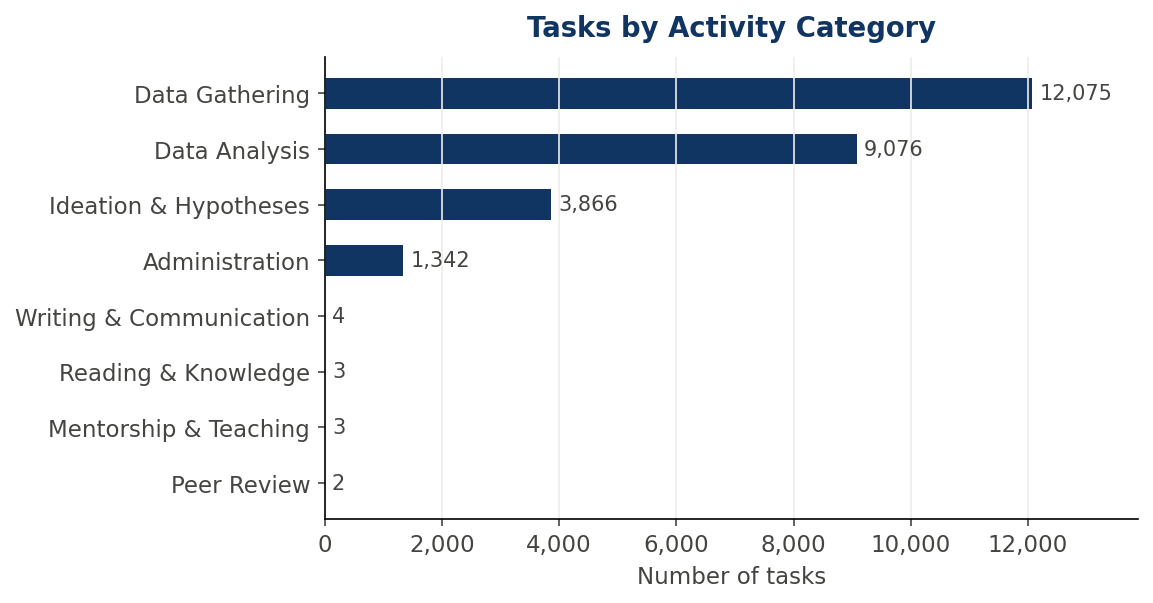
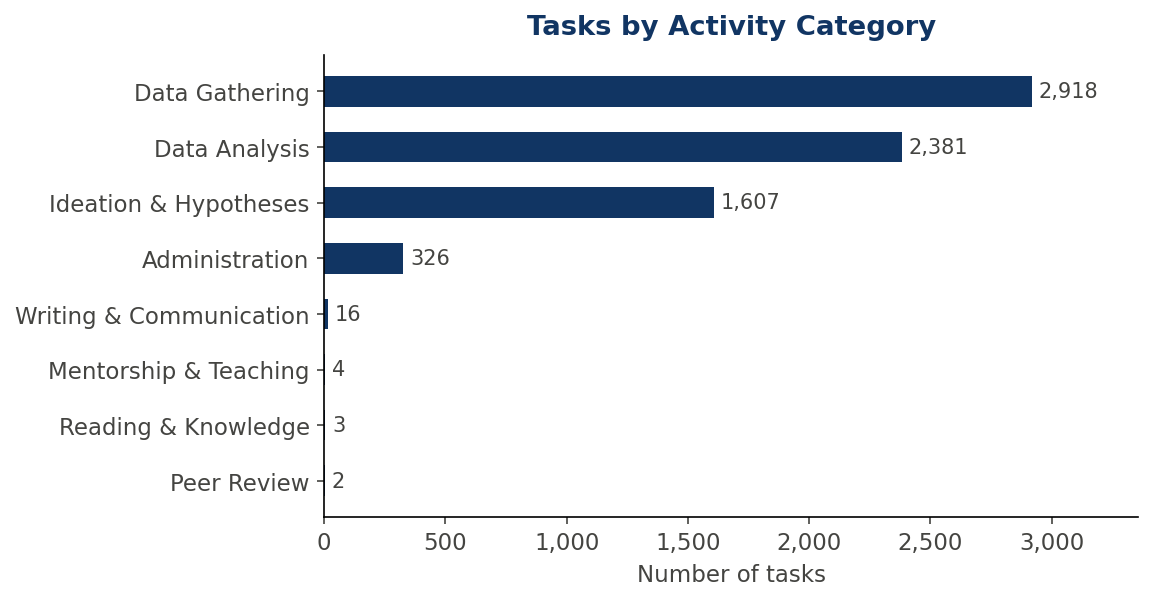
docs: 6 domains not 5, drop topics as a taxonomy level, refresh the task figures
* **6 domains, not 5.** Formal Sciences was added in July and no headline was
  updated; the README, DATA_OVERVIEW and the website all still said five.
* **Topics are no longer a level of the taxonomy.** They carry no tasks and the
  site does not browse them, so the hierarchy is domains -> fields ->
  subfields. `openalex_topic_subfield_mapping.csv` stays and is now described
  for what it actually is: the crosswalk that routes a paper to a subfield.
* **Task figures regenerated** against the v1.3 data. `tasks_by_level` had a
  hard-coded three-level list and was silently dropping the 321 field-level
  tasks; `tasks_by_category` now shows the corrected distribution rather than
  the old release's 89%-Ideation artifact.
* DATA_OVERVIEW says eight activity categories, matching the taxonomy and the
  website; it had said seven.
* Both files now state that a subfield inherits the broader tasks above it,
  which is why a page shows more cards than the database has tasks.

Only the three task figures were regenerated. The others are unchanged, and
the `figures/paper/` set is left alone.

diff --git a/generate_figures.py b/generate_figures.py
@@ -42,7 +42,7 @@ DOMAIN_COLORS = {
     "Life Sciences":     NEWBLUE,
     "Physical Sciences": LABLUE,
     "Health Sciences":   "#5B8FD4",
-    "Arts & Humanities": "#9A6B57",
+    "Arts & Humanities": "#7F8FA6",
 }
 
 CATEGORY_SHORT = {
@@ -60,7 +60,7 @@ CATEGORY_SHORT = {
 STYLE_BASE = {
     "axes.spines.top":  False,
     "axes.spines.right":False,
-    "axes.grid":        True,
+    "axes.grid":        False,
     "axes.grid.axis":   "x",
     "grid.color":       GRAY3,
     "grid.linewidth":   0.8,
@@ -111,12 +111,16 @@ def _suptitle(fig, *args, **kwargs):
 
 
 def save(fig, name):
+    for ax in fig.axes:
+        ax.grid(False)
     fig.savefig(_active_out / name, bbox_inches="tight", dpi=150)
     plt.close(fig)
     print(f"  saved: {_active_out.relative_to(HERE)}/{name}")
 
 
 def save_loose(fig, name):
+    for ax in fig.axes:
+        ax.grid(False)
     fig.savefig(_active_out / name, dpi=150)
     plt.close(fig)
     print(f"  saved: {_active_out.relative_to(HERE)}/{name}")
@@ -471,12 +475,16 @@ def fig_tasks_by_category():
 # ══════════════════════════════════════════════════════════════════════════════
 def fig_tasks_by_level():
     df = pd.read_csv(PUB / "tasks.csv")
-    level_order = ["universal", "domain", "subfield"]
-    level_labels = {"universal": "Universal", "domain": "Domain", "subfield": "Subfield"}
-    counts = df.groupby("level").size().reindex(level_order).rename(index=level_labels)
+    # "field" arrived with the v1.3 validation run; it was absent from the
+    # hard-coded order, so the figure silently dropped 321 tasks
+    level_order = ["universal", "domain", "field", "subfield"]
+    level_labels = {"universal": "Universal", "domain": "Domain",
+                    "field": "Field", "subfield": "Subfield"}
+    counts = (df.groupby("level").size().reindex(level_order).dropna()
+                .astype(int).rename(index=level_labels))
 
     fig, ax = plt.subplots(figsize=(5, 3))
-    colors = [LALIGHTBLUE, NEWBLUE, LABLUE]
+    colors = [LALIGHTBLUE, NEWBLUE, LABLUE, LABLUE][: len(counts)]
     bars = ax.bar(counts.index, counts.values, color=colors, width=0.5)
     for bar, v in zip(bars, counts.values):
         ax.text(bar.get_x() + bar.get_width() / 2, v + counts.values.max() * 0.02,
@@ -757,7 +765,38 @@ def fig_ai_mention_subfields():
 
 
 # ══════════════════════════════════════════════════════════════════════════════
-# 8. AI adoption by country — two panels
+# 8b. AI-mention rate by Economics subfield
+# ══════════════════════════════════════════════════════════════════════════════
+def fig_ai_mention_econ_subfields():
+    tyc = pd.read_csv(PRIV / "openalex" / "field_stats" / "topic_yearly_counts.csv")
+    tyc = tyc[tyc["year"].between(2023, 2025)]
+    tyc_agg = tyc.groupby("topic_id")[["paper_count", "ai_paper_count"]].sum().reset_index()
+
+    mapping = load_topic_mapping()
+    tyc_agg["topic_id"] = tyc_agg["topic_id"].astype(str)
+
+    merged = tyc_agg.merge(mapping, on="topic_id", how="left").dropna(subset=["subfield", "field"])
+    econ = merged[merged["field"] == "Economics"]
+    sf_agg = (econ.groupby("subfield")[["paper_count", "ai_paper_count"]]
+                  .sum().reset_index())
+    sf_agg["ai_share"] = sf_agg["ai_paper_count"] / sf_agg["paper_count"] * 100
+    sf_agg = sf_agg.sort_values("ai_share")
+
+    fig, ax = plt.subplots(figsize=(8, 5.5))
+    ax.barh(sf_agg["subfield"], sf_agg["ai_share"], color=LALIGHTBLUE, height=0.65)
+    for i, (_, row) in enumerate(sf_agg.iterrows()):
+        ax.text(row["ai_share"] + 0.15, i,
+                f"{row['ai_share']:.1f}%", va="center", color=GRAY1, fontsize=9)
+    ax.set_xlabel("Share of papers mentioning AI (%)", color=GRAY1)
+    _set_title(ax, "AI-Mention Rate by Economics Subfield\n(2023–2025)",
+               color=LABLUE, fontweight="bold", pad=10)
+    ax.tick_params(colors=GRAY1, labelsize=9)
+    ax.set_xlim(0, sf_agg["ai_share"].max() * 1.18)
+    save(fig, "ai_mention_econ_subfields.png")
+
+
+# ══════════════════════════════════════════════════════════════════════════════
+# 9. AI adoption by country — two panels
 # ══════════════════════════════════════════════════════════════════════════════
 def fig_ai_adoption_country():
     df = pd.read_csv(PRIV / "openalex" / "field_stats" / "ai_rankings_country.csv")
@@ -1347,6 +1386,7 @@ ALL_FIGS = [
     fig_verifiability_components,
     fig_ai_mention_fields,
     fig_ai_mention_subfields,
+    fig_ai_mention_econ_subfields,
     fig_ai_adoption_country,
     fig_papers_by_domain,
 ]

diff --git a/README.md b/README.md
@@ -1,12 +1,14 @@
 # SciNet
 
-A task-level database of scientific research — a comprehensive map of what researchers actually do, broken down by domain, field, subfield, and topic. SciNet enables rigorous, task-level analysis of scientific work by mapping the granular activity structure of science across 5 domains, 34 fields, 318 subfields, and 4,469 topics, with 7,257 released task statements (27 universal, 134 domain, 321 field, and 6,775 subfield-level). Each task also ships with a substep decomposition and an estimate of how long it takes, per subfield.
+A task-level database of scientific research — a comprehensive map of what researchers actually do, broken down by domain, field, and subfield. SciNet enables rigorous, task-level analysis of scientific work by mapping the granular activity structure of science across 6 domains, 34 fields, and 318 subfields, with 7,257 released task statements (27 universal, 134 domain, 321 field, and 6,775 subfield-level). Each task also ships with a substep decomposition and an estimate of how long it takes, per subfield.
 
 **Website:** [anatomyofscience.com](https://www.anatomyofscience.com/) · **Repository:** [github.com/lukasalthoff/scinet](https://github.com/lukasalthoff/scinet)
 
 ## Overview
 
-SciNet organizes research work into a hierarchy aligned with [OpenAlex](https://openalex.org/) (domains, fields, subfields, and topics). For each level, we use large language models to generate O\*NET-style task statements describing what researchers in that area regularly do.
+SciNet organizes research work into a hierarchy aligned with [OpenAlex](https://openalex.org/): domains, fields, and subfields. Every task is filed at the level it genuinely belongs to — universal tasks apply to research everywhere, domain and field tasks to a whole domain or field, and subfield tasks to one subfield — so a subfield inherits the broader tasks above it rather than repeating them.
+
+Task statements are generated by large language models and then validated against published papers: a candidate task is kept only where it is actually observed in at least 5% of that subfield's papers.
 
 The files in [`data/`](data/) are released for replication and downstream research.
 
@@ -19,7 +21,7 @@ All files are UTF-8. CSVs use comma separators. See [`data/README.md`](data/READ
 | [`data/tasks.csv`](data/tasks.csv) | Every task in the hierarchy (universal, domain, field, and subfield levels) with category labels |
 | [`data/substeps.csv.gz`](data/substeps.csv.gz) | How each task decomposes into the steps a researcher performs |
 | [`data/task_time.csv`](data/task_time.csv) | How long each task takes, estimated separately for every subfield it appears in |
-| [`data/openalex_topic_subfield_mapping.csv`](data/openalex_topic_subfield_mapping.csv) | Maps each OpenAlex topic to its SciNet display domain, field, and subfield |
+| [`data/openalex_topic_subfield_mapping.csv`](data/openalex_topic_subfield_mapping.csv) | Crosswalk from OpenAlex topics to SciNet subfields — how a paper is assigned to a subfield. Topics are not a level of the SciNet taxonomy and carry no tasks of their own |
 
 ### Data dictionary
 
@@ -72,8 +74,8 @@ Both are model estimates, not measurements. Times assume a competent researcher 
 
 <p align="center"><img src="https://raw.githubusercontent.com/lukasalthoff/scinet/main/pipeline.svg" alt="SciNet pipeline diagram" width="680"/></p>
 
-1. **Hierarchy:** OpenAlex domains, fields, subfields, and topics define the taxonomy.
-2. **Task generation:** Large language models produce O\*NET-style task statements at field, subfield, and topic levels using a top-down hierarchical approach.
+1. **Hierarchy:** OpenAlex domains, fields, and subfields define the taxonomy. OpenAlex topics are used only to route papers to a subfield.
+2. **Task generation:** Large language models produce O\*NET-style task statements at the universal, domain, field, and subfield levels using a top-down hierarchical approach.
 
 For a complete description of every pipeline step — including prompt design, coverage thresholds, O\*NET calibration results, and protocols.io validation — see **[METHODOLOGY.md](METHODOLOGY.md)**.
 

diff --git a/DATA_OVERVIEW.md b/DATA_OVERVIEW.md
@@ -1,6 +1,8 @@
 # SciNet Data Overview
 
-SciNet maps the anatomy of scientific research across 5 domains, 34 fields, 318 subfields, and 4,469 topics, with 7,257 task statements in the public release. This page provides a visual summary of the database — task structure, research scale, verifiability, and AI adoption across disciplines.
+SciNet maps the anatomy of scientific research across 6 domains, 34 fields, and 318 subfields, with 7,257 task statements in the public release. This page provides a visual summary of the database — task structure, research scale, verifiability, and AI adoption across disciplines.
+
+Every task is filed at the level it genuinely belongs to: 27 apply to research everywhere, 134 to a whole domain, 321 to a field, and 6,775 to a single subfield. A subfield therefore inherits the broader tasks above it rather than restating them, which is why the website shows more task cards per page than there are tasks in the database.
 
 Figures are generated by [`generate_figures.py`](generate_figures.py) and can be refreshed by running `python3 generate_figures.py` from the `public/` directory.
 
@@ -8,17 +10,19 @@ Figures are generated by [`generate_figures.py`](generate_figures.py) and can be
 
 ## Task Structure
 
-**Tasks by domain** — research tasks at the domain and subfield levels, grouped by the five display research domains.
+**Tasks by domain** — research tasks grouped by the six display research domains.
 
 <p align="center"><img src="https://raw.githubusercontent.com/lukasalthoff/scinet/main/figures/tasks_by_domain.png" alt="Tasks by domain" width="680"/></p>
 
-**Tasks by activity category** — distribution across the seven [O\*NET](https://www.onetonline.org/)-style activity categories that structure all SciNet tasks.
+**Tasks by activity category** — distribution across the eight [O\*NET](https://www.onetonline.org/)-style activity categories that structure all SciNet tasks. (These counts changed substantially in v1.3: the previous release mislabelled 89% of subfield tasks as *Ideation & Hypothesis Generation*.)
 
 <p align="center"><img src="https://raw.githubusercontent.com/lukasalthoff/scinet/main/figures/tasks_by_category.png" alt="Tasks by category" width="680"/></p>
 
-**Tasks by hierarchy level** — counts at each of the three levels present in the released data (universal, domain, subfield). Topic-level tasks are generated separately and not yet in this release.
+**Tasks by hierarchy level** — counts at each of the four levels in the released data: universal, domain, field, and subfield. The field level is new in v1.3.
 
 <p align="center"><img src="https://raw.githubusercontent.com/lukasalthoff/scinet/main/figures/tasks_by_level.png" alt="Tasks by level" width="600"/></p>
+
+**Substeps and time** — each task also ships with a substep decomposition (how the task breaks into the steps a researcher performs) and a time estimate, given separately for every subfield the task appears in. Time is split into attended effort and elapsed time, because a task can be thirty minutes of work spread across a three-week wait. See [`data/substeps.csv.gz`](data/substeps.csv.gz) and [`data/task_time.csv`](data/task_time.csv). These are model estimates, not measurements, and are not displayed on the website.
 
 ---
 
@@ -34,7 +38,7 @@ Figures are generated by [`generate_figures.py`](generate_figures.py) and can be
 
 SciNet computes a verifiability index for each subfield based on three components: retraction rate, hedging language frequency, and booster language frequency in paper abstracts. Higher scores indicate more cautious, verifiable research communication.
 
-**Verifiability by domain** — distribution of subfield-level verifiability scores across the five display research domains.
+**Verifiability by domain** — distribution of subfield-level verifiability scores across the six display research domains.
 
 <p align="center"><img src="https://raw.githubusercontent.com/lukasalthoff/scinet/main/figures/verifiability_by_domain.png" alt="Verifiability by domain" width="680"/></p>
 
